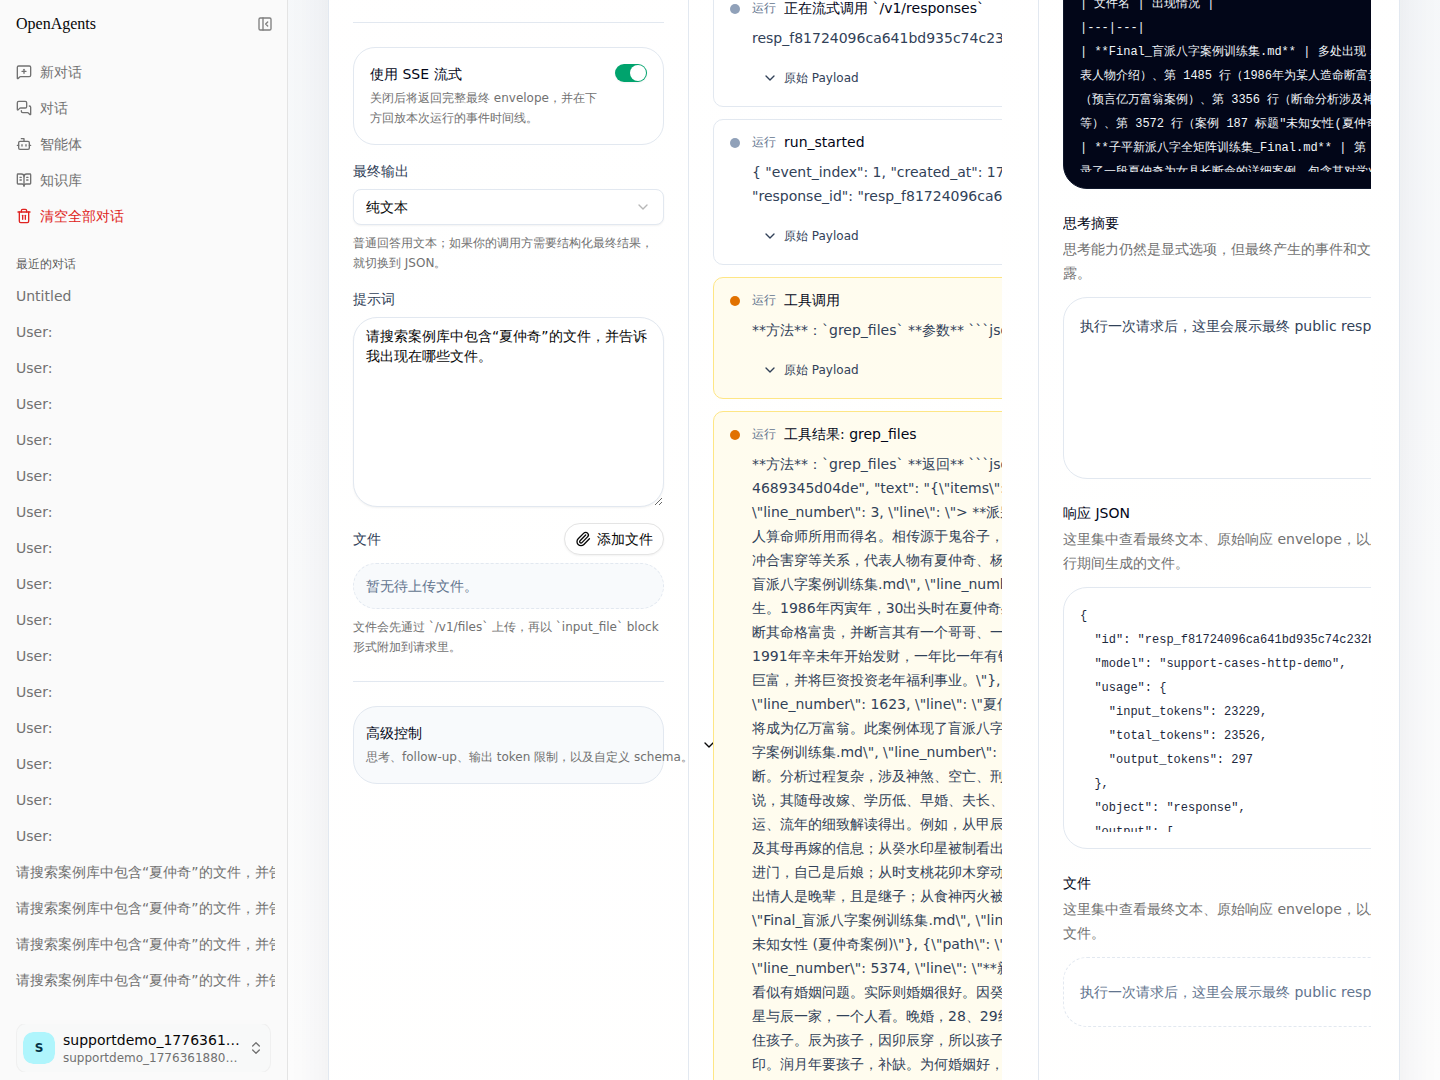
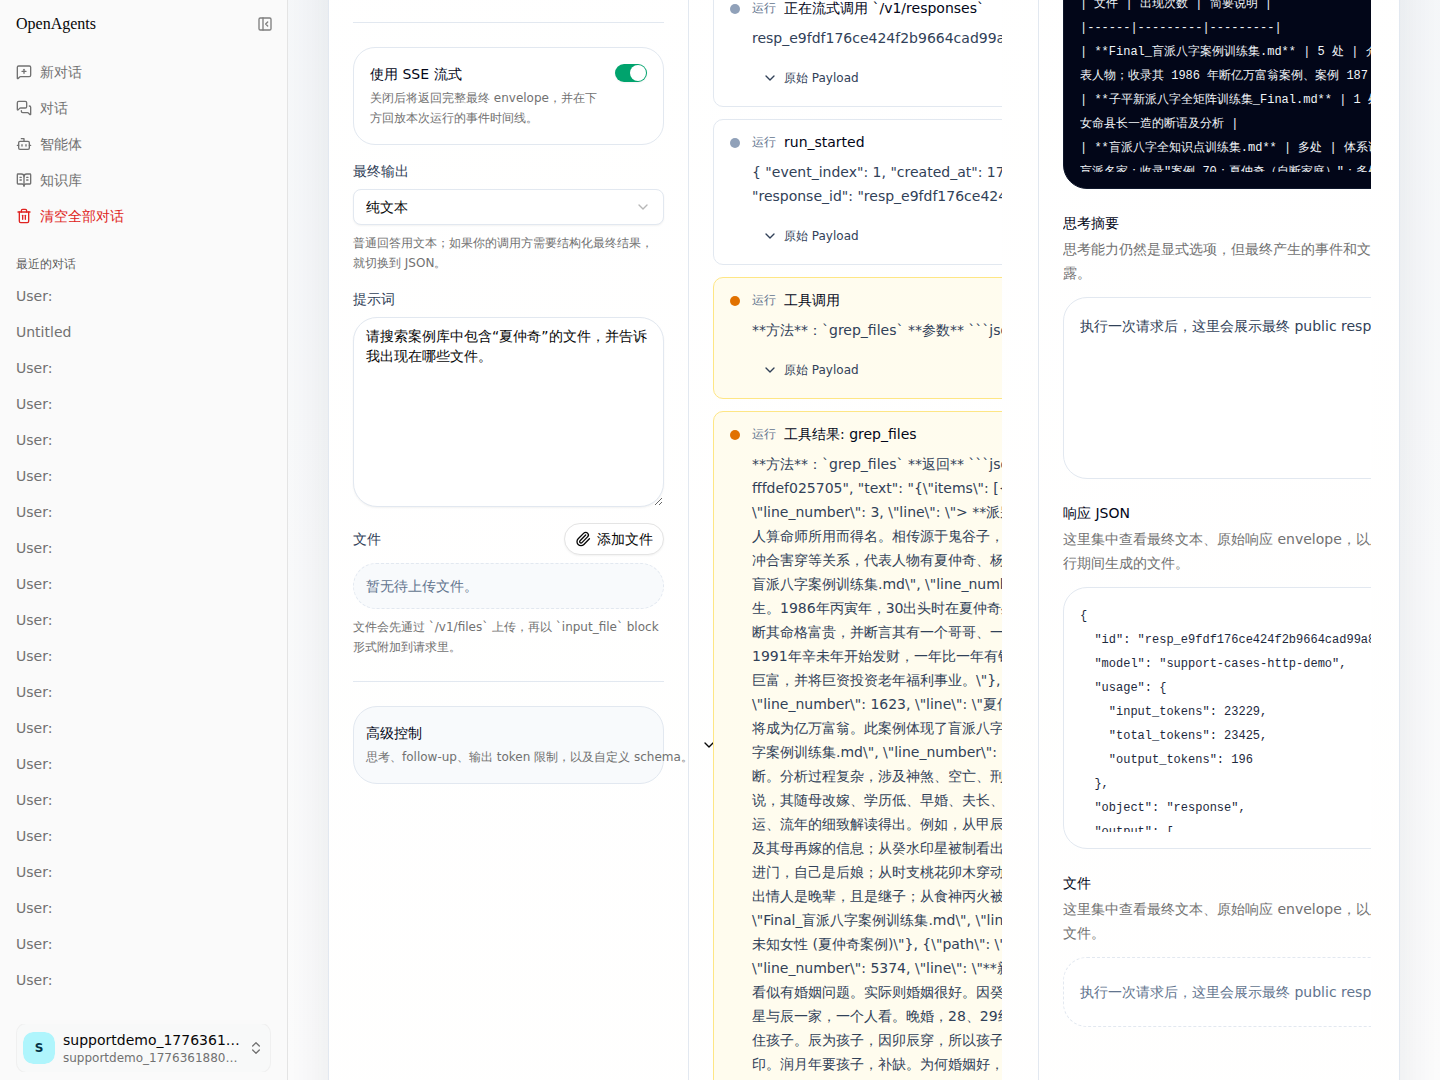
Keep streamed replies visible across workspace and public debug consoles
Native workspace chats were still dropping final answers when one AI message
carried both tool calls and user-visible text, and the public debug consoles
were rendering every assistant delta as a separate block. This change fixes the
shared message grouping rules, merges adjacent streamed reasoning updates, lowers
workspace stream throttling, and shifts the published-agent support page toward
an explicit debug-console posture with current browser evidence.

Constraint: Support-agent acceptance must stay grounded in real browser flows on 8083/8084, not synthetic mocks
Constraint: Public /v1 timelines need one accumulating assistant stream so they visually match the native chat contract closely enough for customer debugging
Rejected: Treat missing final answers as an MCP/runtime bug | real browser evidence showed the frontend grouping logic hid valid assistant text
Rejected: Keep rendering each assistant delta as its own trace card | produced the long block stack the user reported and diverged from native chat behavior
Confidence: high
Scope-risk: moderate
Reversibility: clean
Directive: If an AI message contains visible content, always render that assistant text even when the same message also contains tool calls or reasoning blocks
[…]

diff --git a/frontend/app/src/app/docs/agents/[agent_name]/support/support-sdk-chat-demo.i18n.ts b/frontend/app/src/app/docs/agents/[agent_name]/support/support-sdk-chat-demo.i18n.ts
@@ -94,27 +94,27 @@ const enUS: SupportSDKChatDemoText = {
   promptsDescription:
     "These prompts match the real customer-case acceptance flow and help verify the MCP-backed file operations quickly.",
   usePrompt: "Use prompt",
-  securityTitle: "Why this page exists",
+  securityTitle: "Why this console exists",
   securityDescription:
     "It validates browser-side SDK compatibility against the published contract. It is for testing and demos, not for shipping a public site with an exposed key.",
-  chatTitle: "Conversation",
+  chatTitle: "Debug console",
   chatEmptyTitle: "No messages yet",
   chatEmptyDescription:
     "Choose one of the starter prompts or write your own question about the private case library.",
-  sdkLabel: "OpenAI JS SDK -> /v1/responses",
+  sdkLabel: "Official OpenAI JS SDK -> Deer Flow /v1/responses",
   userLabel: "User",
   assistantLabel: "Assistant",
   assistantReplyTitle: "Assistant reply",
   toolStartedTitle: "Tool started",
   toolFinishedTitle: "Tool finished",
-  activityTitle: "Last run activity",
+  activityTitle: "Current run timeline",
   activityEmpty:
     "Tool calls and terminal events for the latest run will appear here after the agent answers.",
   stepsTitle: "Run steps",
   stepsEmpty: "Run steps will appear here after this reply finishes.",
   responseMetaLabel: "Response",
   toolCallsMetaLabel: "Tool calls",
-  composerLabel: "Ask the published support agent",
+  composerLabel: "Run the published agent",
   composerPlaceholder:
     "Ask about file names, read a page, filter with glob, or search with grep.",
   send: "Send",
@@ -179,25 +179,25 @@ const zhCN: SupportSDKChatDemoText = {
   promptsDescription:
     "这些问题直接对应真实客户案例验收流程，可以快速验证 MCP 支撑的文件操作能力。",
   usePrompt: "使用这个问题",
-  securityTitle: "这个页面的用途",
+  securityTitle: "这个调试台的用途",
   securityDescription:
-    "它用来验证浏览器侧 SDK 与已发布契约的兼容性。适合测试和演示，不适合把带密钥的调用直接公开上线。",
-  chatTitle: "对话",
+    "它用来验证浏览器侧 SDK 与已发布契约的兼容性，并观察真实运行步骤。适合验收和调试，不适合把带密钥的调用直接公开上线。",
+  chatTitle: "调试台",
   chatEmptyTitle: "还没有消息",
   chatEmptyDescription: "从左侧选择一个起手问题，或者直接输入你自己的案例库问题。",
-  sdkLabel: "OpenAI JS SDK -> /v1/responses",
+  sdkLabel: "Official OpenAI JS SDK -> Deer Flow /v1/responses",
   userLabel: "用户",
   assistantLabel: "助手",
   assistantReplyTitle: "助手回复",
   toolStartedTitle: "工具开始",
   toolFinishedTitle: "工具结束",
-  activityTitle: "最近一次运行活动",
+  activityTitle: "当前运行时间线",
   activityEmpty: "智能体回答后，这里会展示最近一次运行的工具调用与结束事件。",
   stepsTitle: "运行步骤",
   stepsEmpty: "这条回复完成后，会在这里显示对应的运行步骤。",
   responseMetaLabel: "响应",
   toolCallsMetaLabel: "工具调用",
-  composerLabel: "向已发布客服智能体提问",
+  composerLabel: "直接运行已发布 Agent",
   composerPlaceholder: "你可以问文件列表、分页读文件、glob 过滤或 grep 搜索。",
   send: "发送",
   sending: "执行中",

diff --git a/frontend/app/src/core/public-api/run-session.ts b/frontend/app/src/core/public-api/run-session.ts
@@ -42,11 +42,67 @@ function eventKey(event: PublicAPIRunEvent) {
   return `${event.type}:${event.event_index}`;
 }
 
+function shouldSkipLedgerTrace(event: PublicAPIRunEvent) {
+  // Assistant deltas can arrive twice on the public SSE surface:
+  // once as the OpenAI-compatible `response.output_text.delta`, and again
+  // inside the canonical `response.run_event` ledger. The UI wants one
+  // growing assistant block, not two parallel delta streams.
+  return event.type === "assistant_delta";
+}
+
+function upsertAssistantDeltaTrace(
+  current: PublicAPIRunReadModel,
+  delta: string,
+  traceText: PlaygroundTraceText,
+) {
+  const nextDetail = `${current.liveOutput}${delta}`;
+  const nextTimestamp = Date.now();
+  const previous = current.traceItems[current.traceItems.length - 1];
+
+  if (
+    previous &&
+    previous.stage === "assistant" &&
+    previous.tone === "assistant" &&
+    previous.title === traceText.assistantMessage
+  ) {
+    const nextTraceItems = [...current.traceItems];
+    nextTraceItems[nextTraceItems.length - 1] = {
+      ...previous,
+      detail: nextDetail,
+      timestamp: nextTimestamp,
+      raw: {
+        kind: "assistant_delta_stream",
+        text: nextDetail,
+      },
+    };
+    return nextTraceItems;
+  }
+
+  return [
+    ...current.traceItems,
+    {
+      stage: "assistant" as const,
+      tone: "assistant" as const,
+      title: traceText.assistantMessage,
+      detail: nextDetail,
+      timestamp: nextTimestamp,
+      raw: {
+        kind: "assistant_delta_stream",
+        text: nextDetail,
+      },
+    },
+  ];
+}
+
 function pushTraceItemIfNeeded(
   current: PublicAPIRunReadModel,
   event: PublicAPIRunEvent,
   traceText: PlaygroundTraceText,
 ): PublicAPIRunReadModel {
+  if (shouldSkipLedgerTrace(event)) {
+    return current;
+  }
+
   const key = eventKey(event);
   if (current.seenEventKeys.includes(key)) {
     return current;
@@ -148,6 +204,11 @@ export function applyNormalizedPublicAPIRunEvent(params: {
       return {
         ...current,
         liveOutput: `${current.liveOutput}${event.delta}`,
+        traceItems: upsertAssistantDeltaTrace(
+          current,
+          event.delta,
+          traceText,
+        ),
       };
     case "ledger_event": {
       let next = pushTraceItemIfNeeded(current, event.event, traceText);

diff --git a/frontend/app/src/components/workspace/messages/message-group.tsx b/frontend/app/src/components/workspace/messages/message-group.tsx
@@ -616,6 +616,37 @@ interface CoTToolCallStep extends GenericCoTStep<"toolCall"> {
 
 type CoTStep = CoTReasoningStep | CoTToolCallStep;
 
+function appendReasoningStep(steps: CoTStep[], step: CoTReasoningStep) {
+  const previous = steps[steps.length - 1];
+  if (!previous || previous.type !== "reasoning") {
+    steps.push(step);
+    return;
+  }
+
+  const previousReasoning = previous.reasoning?.trim() ?? "";
+  const nextReasoning = step.reasoning?.trim() ?? "";
+  if (!nextReasoning) {
+    return;
+  }
+
+  // Streamed reasoning often re-emits the full accumulated thought in a fresh
+  // AI chunk. Replace the prior adjacent reasoning step when the new chunk is
+  // a strict extension so the UI shows one growing thought instead of a stack
+  // of near-duplicate thinking boxes.
+  if (nextReasoning.startsWith(previousReasoning)) {
+    previous.reasoning = nextReasoning;
+    previous.id = step.id;
+    previous.messageId = step.messageId;
+    return;
+  }
+
+  if (previousReasoning.startsWith(nextReasoning)) {
+    return;
+  }
+
+  steps.push(step);
+}
+
 export function shouldShowTrailingReasoning(
   nextGroupType: string | undefined,
   isLoading: boolean,
@@ -658,7 +689,7 @@ function convertToSteps(messages: Message[]): CoTStep[] {
           type: "reasoning",
           reasoning,
         };
-        steps.push(step);
+        appendReasoningStep(steps, step);
       }
       for (const tool_call of message.tool_calls ?? []) {
         if (tool_call.name === "task") {

diff --git a/frontend/app/src/components/workspace/messages/message-group.test.tsx b/frontend/app/src/components/workspace/messages/message-group.test.tsx
@@ -322,4 +322,37 @@ describe("MessageGroup tool display", () => {
     expect(screen.getByText(/"glob_pattern": "\*\.md"/)).toBeInTheDocument();
     expect(screen.getByText(/"limit": 20/)).toBeInTheDocument();
   });
+
+  it("merges adjacent streamed reasoning updates into one visible thought", () => {
+    render(
+      <MessageGroup
+        messages={[
+          {
+            id: "ai-1",
+            type: "ai",
+            content: [
+              {
+                type: "thinking",
+                thinking: "先检查案例目录。",
+              },
+            ],
+          },
+          {
+            id: "ai-2",
+            type: "ai",
+            content: [
+              {
+                type: "thinking",
+                thinking: "先检查案例目录。\n再确认关键词是否命中。",
+              },
+            ],
+          },
+        ] as never}
+      />,
+    );
+
+    expect(screen.getByText("Thinking")).toBeInTheDocument();
+    expect(screen.getAllByText(/先检查案例目录/)).toHaveLength(1);
+    expect(screen.getByText(/再确认关键词是否命中/)).toBeInTheDocument();
+  });
 });

diff --git a/frontend/app/src/core/messages/utils.test.ts b/frontend/app/src/core/messages/utils.test.ts
@@ -91,6 +91,42 @@ describe("groupMessages", () => {
     ]);
     expect(groups[0]?.messages).toHaveLength(2);
   });
+
+  it("keeps the final assistant text visible when the same ai message also carries tool calls", () => {
+    const groups = groupMessages(
+      [
+        {
+          id: "ai-1",
+          type: "ai",
+          content: "最终结论：命盘偏财旺。",
+          tool_calls: [
+            {
+              id: "grep-1",
+              name: "grep",
+              args: {
+                pattern: "偏财",
+                path: "/mnt/user-data/cases",
+              },
+            },
+          ],
+        },
+        {
+          id: "tool-1",
+          type: "tool",
+          name: "grep",
+          tool_call_id: "grep-1",
+          content: "matched",
+        },
+      ] as never,
+      (group) => group,
+    );
+
+    expect(groups.map((group) => group.type)).toEqual([
+      "assistant:processing",
+      "assistant",
+    ]);
+    expect(groups[1]?.messages[0]?.content).toBe("最终结论：命盘偏财旺。");
+  });
 });
 
 describe("extractNextStepsFromText", () => {

diff --git a/frontend/app/src/core/threads/hooks.ts b/frontend/app/src/core/threads/hooks.ts
@@ -65,8 +65,11 @@ export type ThreadStreamOptions = {
 };
 
 const LEAD_AGENT_ID = "lead_agent";
-const FLASH_STREAM_THROTTLE = 96;
-const DEFAULT_STREAM_THROTTLE = 192;
+// The native workspace chat should feel closer to the raw SSE cadence that the
+// public SDK demos expose. The older throttle made long reasoning runs appear
+// to stall between updates, especially while Markdown blocks were re-rendering.
+const FLASH_STREAM_THROTTLE = 48;
+const DEFAULT_STREAM_THROTTLE = 96;
 const HISTORY_PAGE_SIZE = 1;
 const STATE_HYDRATION_DELAY_MS = process.env.NODE_ENV === "test" ? 0 : 1500;
 const PENDING_RUN_RECOVERY_POLL_MS =

diff --git a/frontend/app/src/core/messages/utils.ts b/frontend/app/src/core/messages/utils.ts
@@ -163,7 +163,11 @@ export function groupMessages<T>(
           }
         }
       }
-      if (hasContent(message) && !hasToolCalls(message)) {
+      if (hasContent(message)) {
+        // Some runtimes keep the final answer text on the same AI message that
+        // also carries tool calls or reasoning. The transcript must still
+        // render that visible answer instead of treating the turn as
+        // processing-only and hiding the assistant's final content.
         groups.push({
           id: message.id,
           type: "assistant",

diff --git a/frontend/app/src/core/public-api/run-session.test.ts b/frontend/app/src/core/public-api/run-session.test.ts
@@ -108,7 +108,12 @@ describe("applyNormalizedPublicAPIRunEvent", () => {
 
     expect(dedupedTool.responseId).toBe("resp_1");
     expect(dedupedTool.liveOutput).toBe("hello");
-    expect(dedupedTool.traceItems).toHaveLength(1);
+    expect(dedupedTool.traceItems).toHaveLength(2);
+    expect(dedupedTool.traceItems[0]).toMatchObject({
+      stage: "assistant",
+      tone: "assistant",
+      detail: "hello",
+    });
     expect(dedupedTool.toolCallCount).toBe(1);
   });
 });

diff --git a/frontend/app/src/app/docs/agents/[agent_name]/support/support-sdk-chat-demo.tsx b/frontend/app/src/app/docs/agents/[agent_name]/support/support-sdk-chat-demo.tsx
@@ -115,7 +115,7 @@ export function SupportSDKChatDemo({
     null,
   );
   const [previousResponseID, setPreviousResponseID] = useState("");
-  const [reasoningEnabled, setReasoningEnabled] = useState(false);
+  const [reasoningEnabled, setReasoningEnabled] = useState(true);
   const [reasoningEffort, setReasoningEffort] =
     useState<PublicAPIReasoningEffort>("medium");
   const [runState, setRunState] = useState<"ready" | "streaming" | "failed" | "waiting">(

diff --git a/docs/testing/results/2026-04-17-support-sdk-demo-runtime/README.md b/docs/testing/results/2026-04-17-support-sdk-demo-runtime/README.md
@@ -47,6 +47,7 @@
 - [05-standalone-demo-current.png](/root/project/ai/deer-flow/docs/testing/results/2026-04-17-support-sdk-demo-runtime/05-standalone-demo-current.png)
 - [06-standalone-demo-timeline.png](/root/project/ai/deer-flow/docs/testing/results/2026-04-17-support-sdk-demo-runtime/06-standalone-demo-timeline.png)
 - [07-workspace-playground-current.png](/root/project/ai/deer-flow/docs/testing/results/2026-04-17-support-sdk-demo-runtime/07-workspace-playground-current.png)
+- [08-native-chat-current.png](/root/project/ai/deer-flow/docs/testing/results/2026-04-17-support-sdk-demo-runtime/08-native-chat-current.png)
 - [04-lead-agent-create.png](/root/project/ai/deer-flow/docs/testing/results/2026-04-17-support-sdk-demo-runtime/04-lead-agent-create.png)
 - [lead-agent-created.json](/root/project/ai/deer-flow/docs/testing/results/2026-04-17-support-sdk-demo-runtime/lead-agent-created.json)
   - 本次通过 `lead_agent` 真实创建出来的 agent 名
@@ -61,6 +62,8 @@
    - `http://127.0.0.1:8084`
 4. 工作区 published agent 调试台：
    - `http://127.0.0.1:8083/workspace/agents/support-cases-http-demo/playground?agent_status=prod`
+5. 原生工作区聊天页：
+   - `http://127.0.0.1:8083/workspace/agents/support-cases-http-demo/chats/new?agent_status=prod`
 
 ## 你作为用户怎么直接试
 
@@ -100,6 +103,7 @@
 - 两者都能在客服 agent 中真实调用客户案例数据，而不是先导入 Deer Flow 知识库
 - `8084` 独立 React + Tailwind SDK demo 已经能作为外部接入示例使用
 - `8083` 工作区 published agent playground 现在也能显示时间线式步骤、工具名、工具参数，以及最终 response JSON
+- 原生工作区聊天页已经重新验证：带工具调用的同一条 AI message 现在仍会显示最终回答，不再只剩步骤而吞掉正文
 - 当前构建与目标单测通过：
   - `pnpm --dir frontend/app typecheck`
   - `pnpm --dir frontend/app exec vitest run src/core/public-api/run-session.test.ts`
